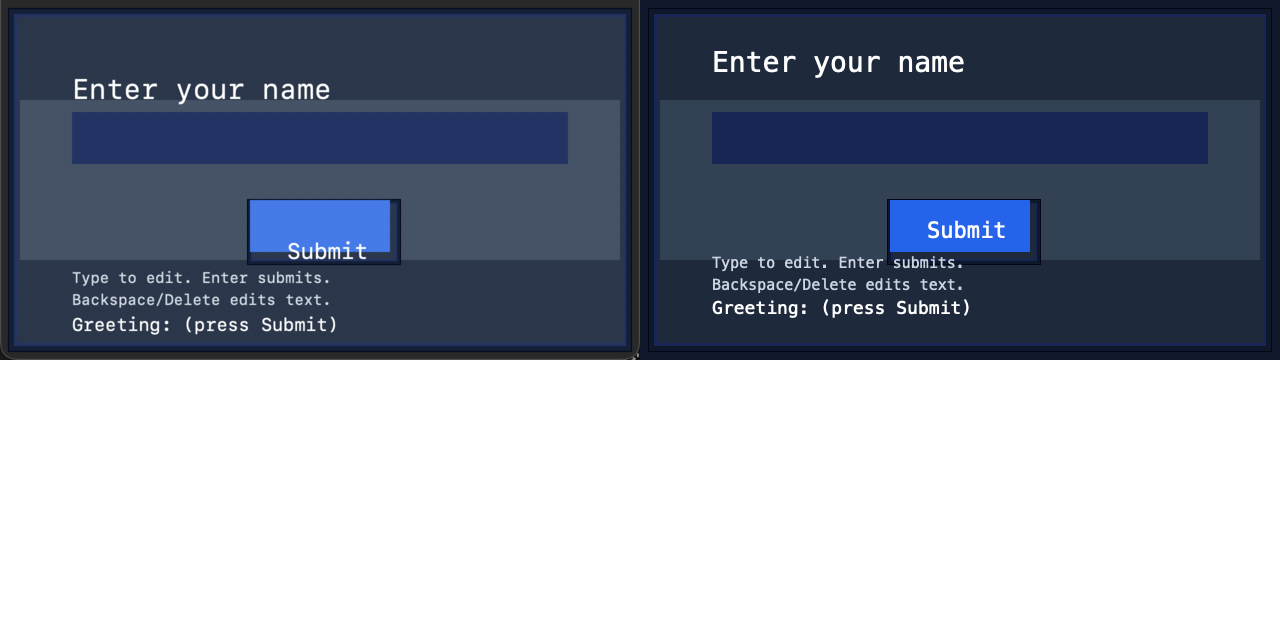
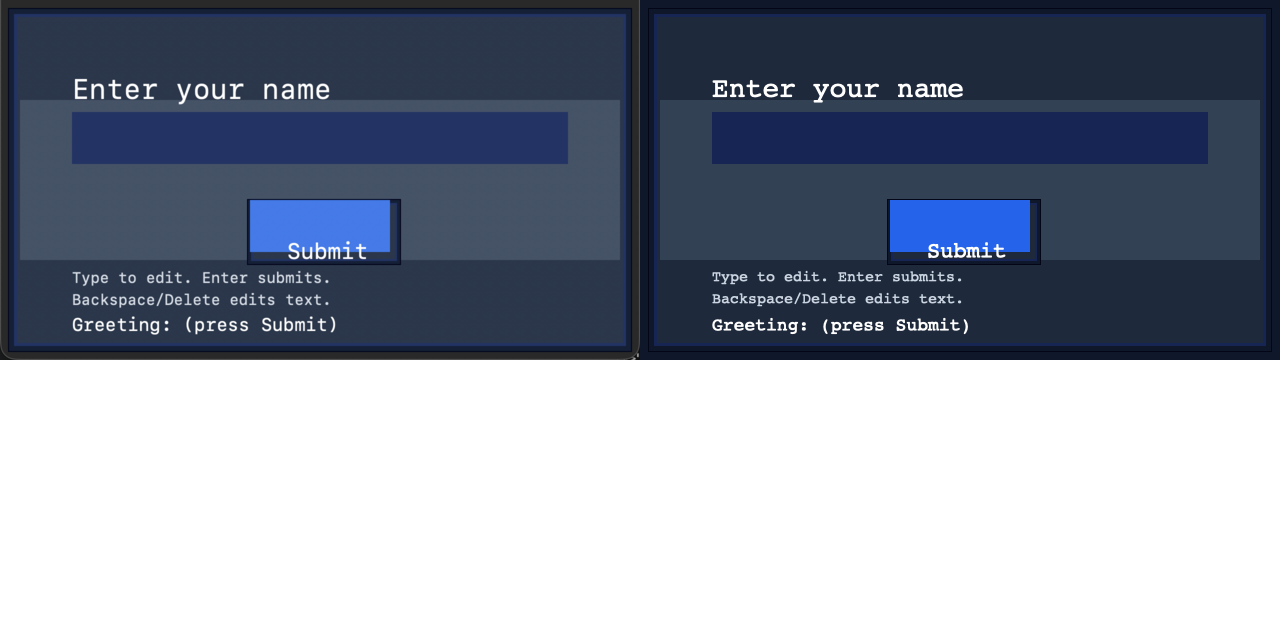
Compare screenshot to generated svg

Changed region(s): [[0.5312, 0.3438, 0.7812, 0.5312], [0.5312, 0.0625, 0.75, 0.1562]]

diff --git a/scripts/generate-debug-render-svg.py b/scripts/generate-debug-render-svg.py
@@ -140,7 +140,9 @@ def render_node(n, children_by_parent, by_id, indent=2):
         font = ""
         if n["font_size"] > 0:
             font = f' font-size="{n["font_size"]}"'
-        return [f'{pad}<text id="{html.escape(n["id"], quote=True)}" x="{n["x"]}" y="{n["y"]}"{font} font-family="monospace" {attr}>{t}</text>'.rstrip()]
+        return [
+            f'{pad}<text id="{html.escape(n["id"], quote=True)}" x="{n["x"]}" y="{n["y"]}"{font} font-family="monospace" dominant-baseline="text-before-edge" alignment-baseline="text-before-edge" {attr}>{t}</text>'.rstrip()
+        ]
     return [f'{pad}<!-- unsupported kind {html.escape(n["kind"])} -->']
 
 
